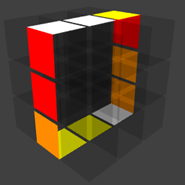
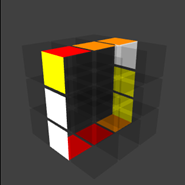
Update roux mehtod

diff --git a/content/rubiks_cube/rm_l4e_patterns.md b/content/rubiks_cube/rm_l4e_patterns.md
@@ -16,7 +16,7 @@ css = "rm_l4e_patterns.css"
   <div class="type">
     <div class="lc"><img src="/rubiks_cube/img/rm_l4e/3cycle_01.png"></div>
     <div class="rc">
-      <p class="steps" data-visibles="fu4,uf0,u0,f4,d5,b2,bd2,db0,bu4,ub5,fd2,df5">MU'2MU'2</p>
+      <p class="steps" data-visibles="fu5,uf4,u2,f0,d4,b5,bd5,db2,bu0,ub2,fd0,df4">U'2MU'2</p>
     </div> 
   </div>
 </div>
@@ -25,7 +25,8 @@ css = "rm_l4e_patterns.css"
   <div class="type">
     <div class="lc"><img src="/rubiks_cube/img/rm_l4e/3cycle_02.png"></div>
     <div class="rc">
-      <p class="steps" data-visibles="fu0,f0,fd5,df2,d4,db4,bd0,b5,bu5,ub4,u2,uf2">M'2U'2M'U'2</p>
+      <!-- <p class="steps" data-visibles="fu0,f0,fd5,df2,d4,db4,bd0,b5,bu5,ub4,u2,uf2">U'2M'U'2</p> -->
+      <p class="steps" data-visibles="fu0,f5,fd5,df4,d2,db2,bd0,b0,bu5,ub2,u4,uf4">U'2M'U'2</p>
     </div> 
   </div>
 </div>

diff --git a/content/rubiks_cube/rm_cmll_patterns.md b/content/rubiks_cube/rm_cmll_patterns.md
@@ -1,7 +1,7 @@
 +++
 date = "2024-04-14T09:00:00+09:00"
 title = "CMLL手順"
-Tags = ["rubiks_cube", "roux_method", "lr"]
+Tags = ["rubiks_cube", "roux_method", "cmll"]
 
 customs = [
   '<link rel="stylesheet" href="https://cdnjs.cloudflare.com/ajax/libs/izimodal/1.4.2/css/iziModal.css" integrity="sha256-m/nnXscwkcMbAFsUOys9WKr+MzlZz3q7EcJpkOxItaU=" crossorigin="anonymous" />',
